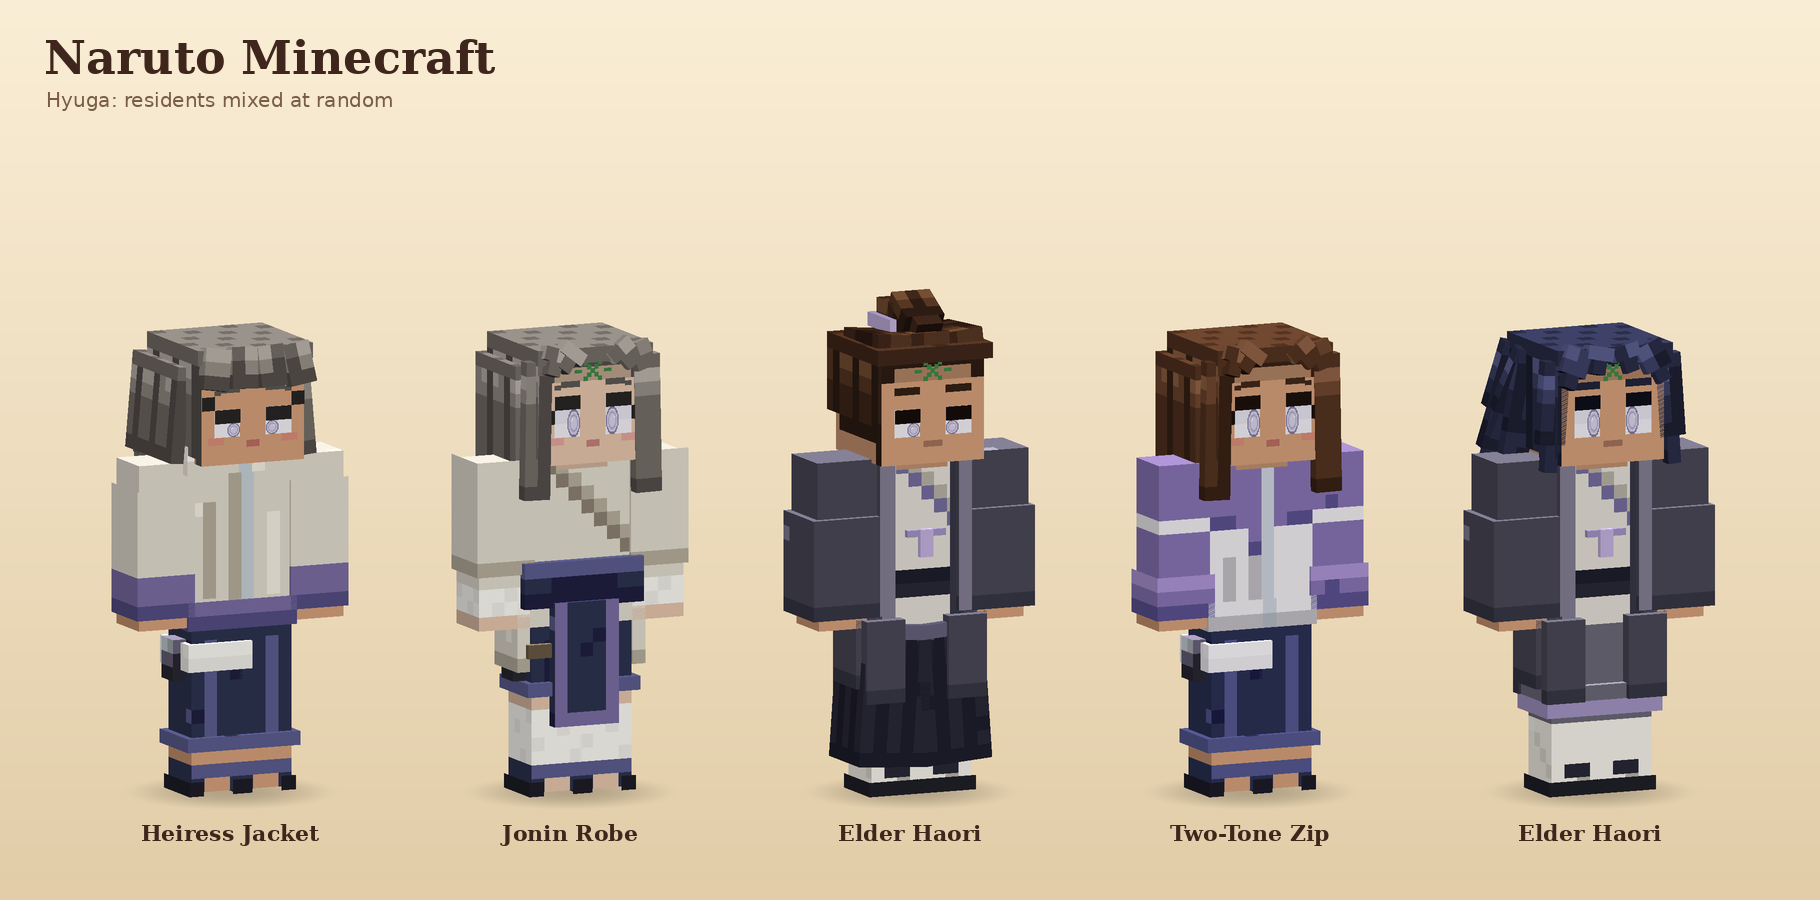
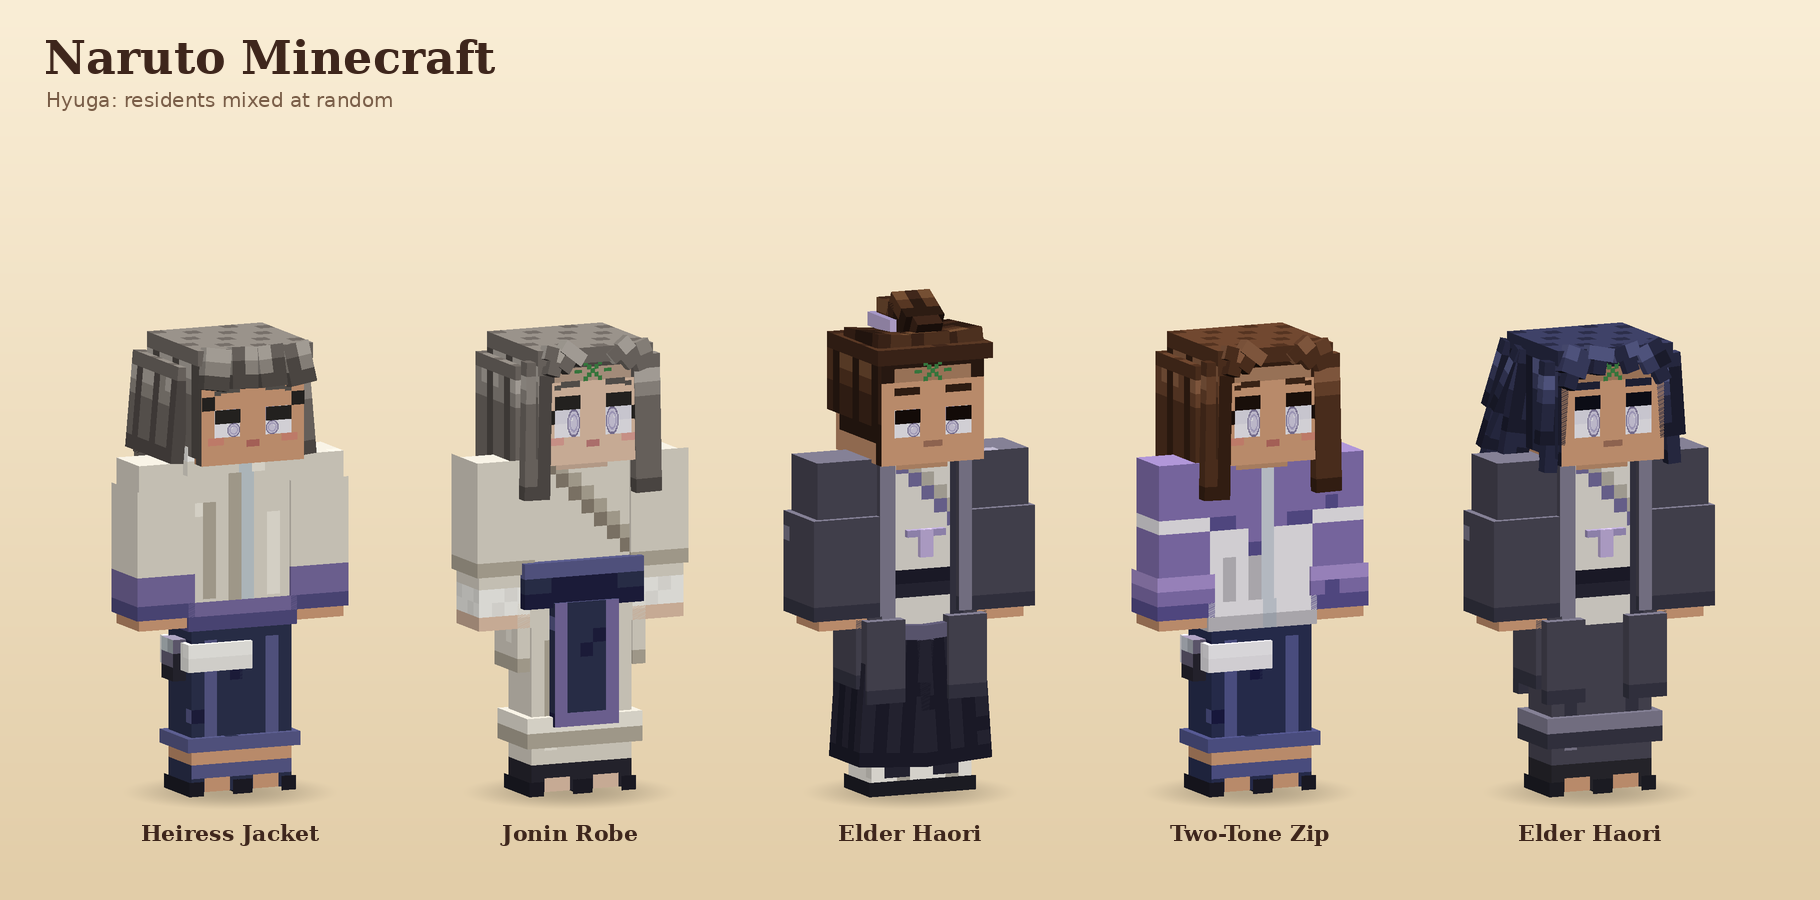
Hyuga jonin robe: matching off-white robe trousers (b406), after Neji's Shippuden outfit

Changed region(s): [[0.8308, 0.6844, 0.9231, 0.9022], [0.2769, 0.6844, 0.3692, 0.8711]]

diff --git a/tools/wardrobe/bottoms/b406_robe_trousers.py b/tools/wardrobe/bottoms/b406_robe_trousers.py
@@ -1,0 +1,32 @@
+"""Robe Trousers: loose trousers in the robe's own off-white cloth, bloused into a band at the shin,
+over black open-toe sandals: the matching legs of a jonin's robe and apron."""
+from kit import leg_ring
+from paint import fabric, strip_fabric
+
+META = {"name": "Robe Trousers", "gender": "unisex",
+        "description": "Loose off-white trousers matching the robe, banded at the shin, black sandals.",
+        "tags": ["shinobi", "hyuga"]}
+
+
+def build(g):
+    body = g.part("body")
+    strip_fabric(body, "P", "velvet", 4951, 2, 9, 11)
+    body.strip.hline(0, body.strip.w - 1, 9, "P1")
+    fabric(body.bottom, "P", "velvet", 4951, 1)
+    for side in ("right", "left"):
+        leg = g.part(f"{side}_leg")
+        strip_fabric(leg, "P", "velvet", 4952 + (side == "left"), 2, 0, 9)
+        fabric(leg.top, "P", "velvet", 4952, 2)
+        leg.front.vline(1 if side == "right" else 2, 1, 6, "P1")
+        # Black open-toe sandals.
+        strip_fabric(leg, "K", "smooth", 4954, 2, 10, 11)
+        leg.front.set(1, 11, None), leg.front.set(2, 11, None)
+        leg.bottom.fill("K1")
+        pants = g.part(f"{side}_pants")
+        for face in pants.sides:
+            face.hline(0, face.w - 1, 11, "K1")
+        pants.front.set(1, 11, None), pants.front.set(2, 11, None)
+        pants.bottom.fill("K0")
+    for ring in leg_ring(g, "blouse", 6.6, "P", 2, (5, 2, 5), "velvet", inflate=.1):
+        for face in ring.sides:
+            face.hline(0, face.w - 1, 0, "P3"), face.hline(0, face.w - 1, 1, "P1")
